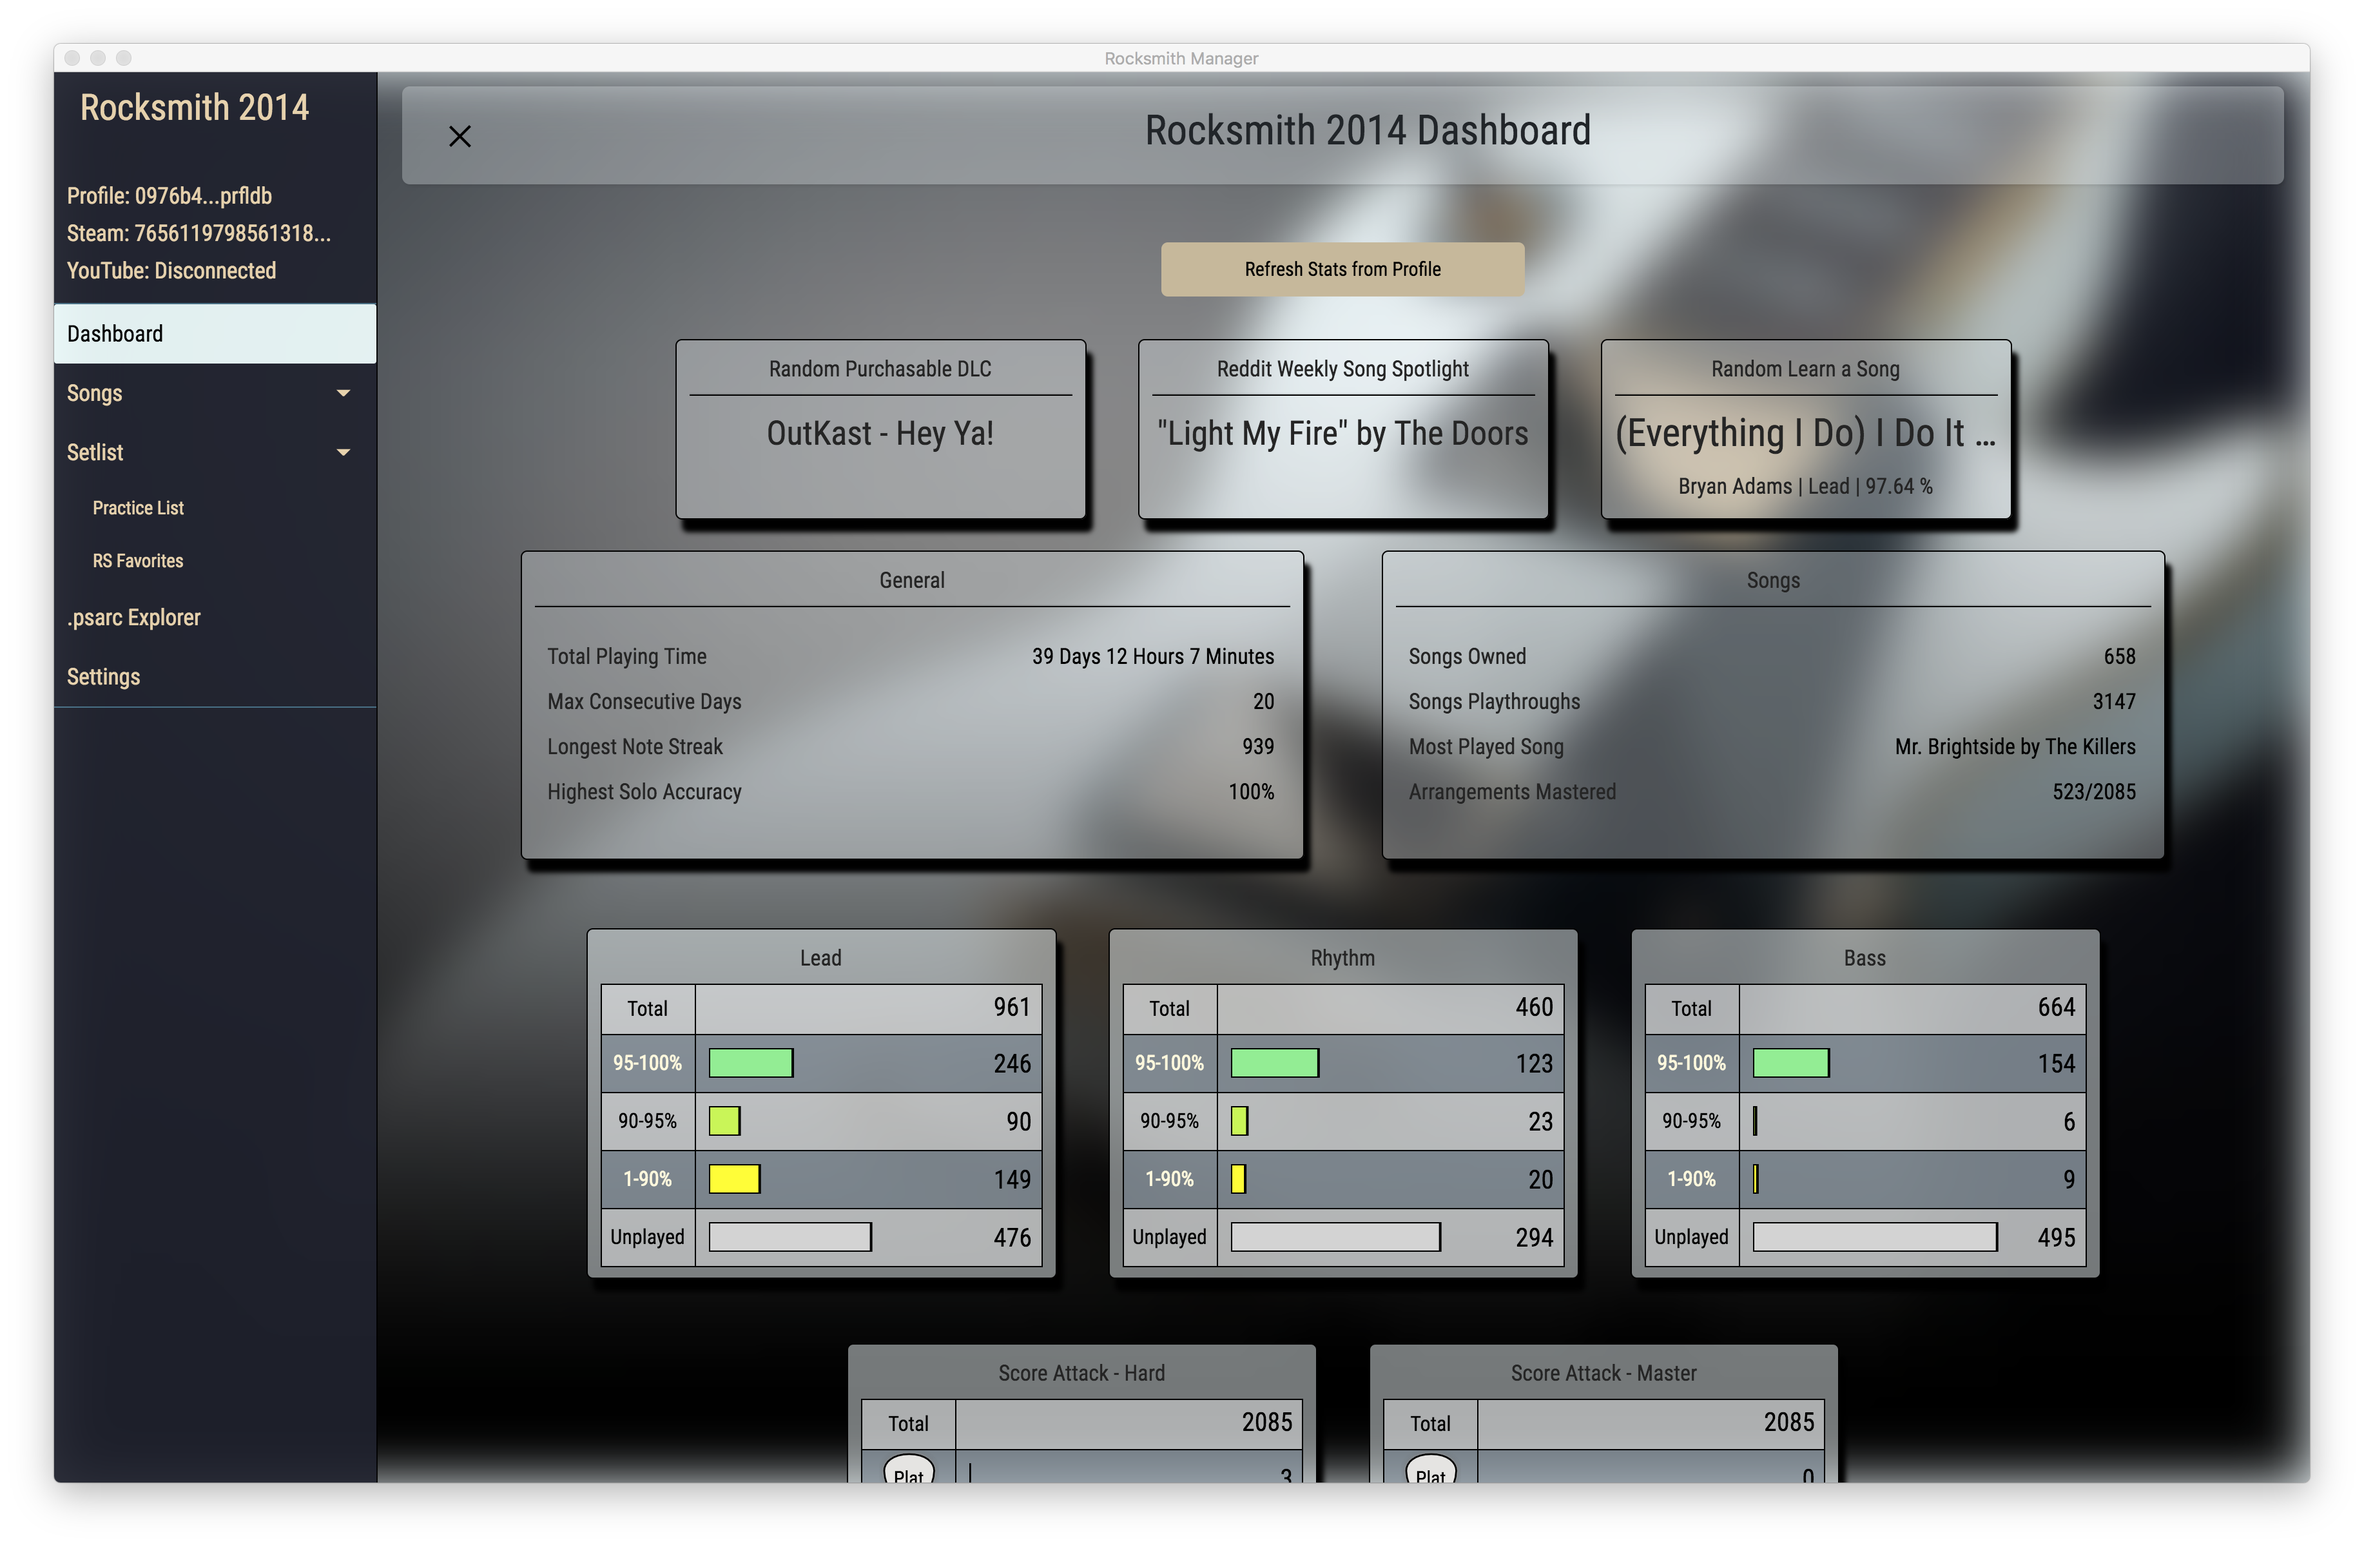
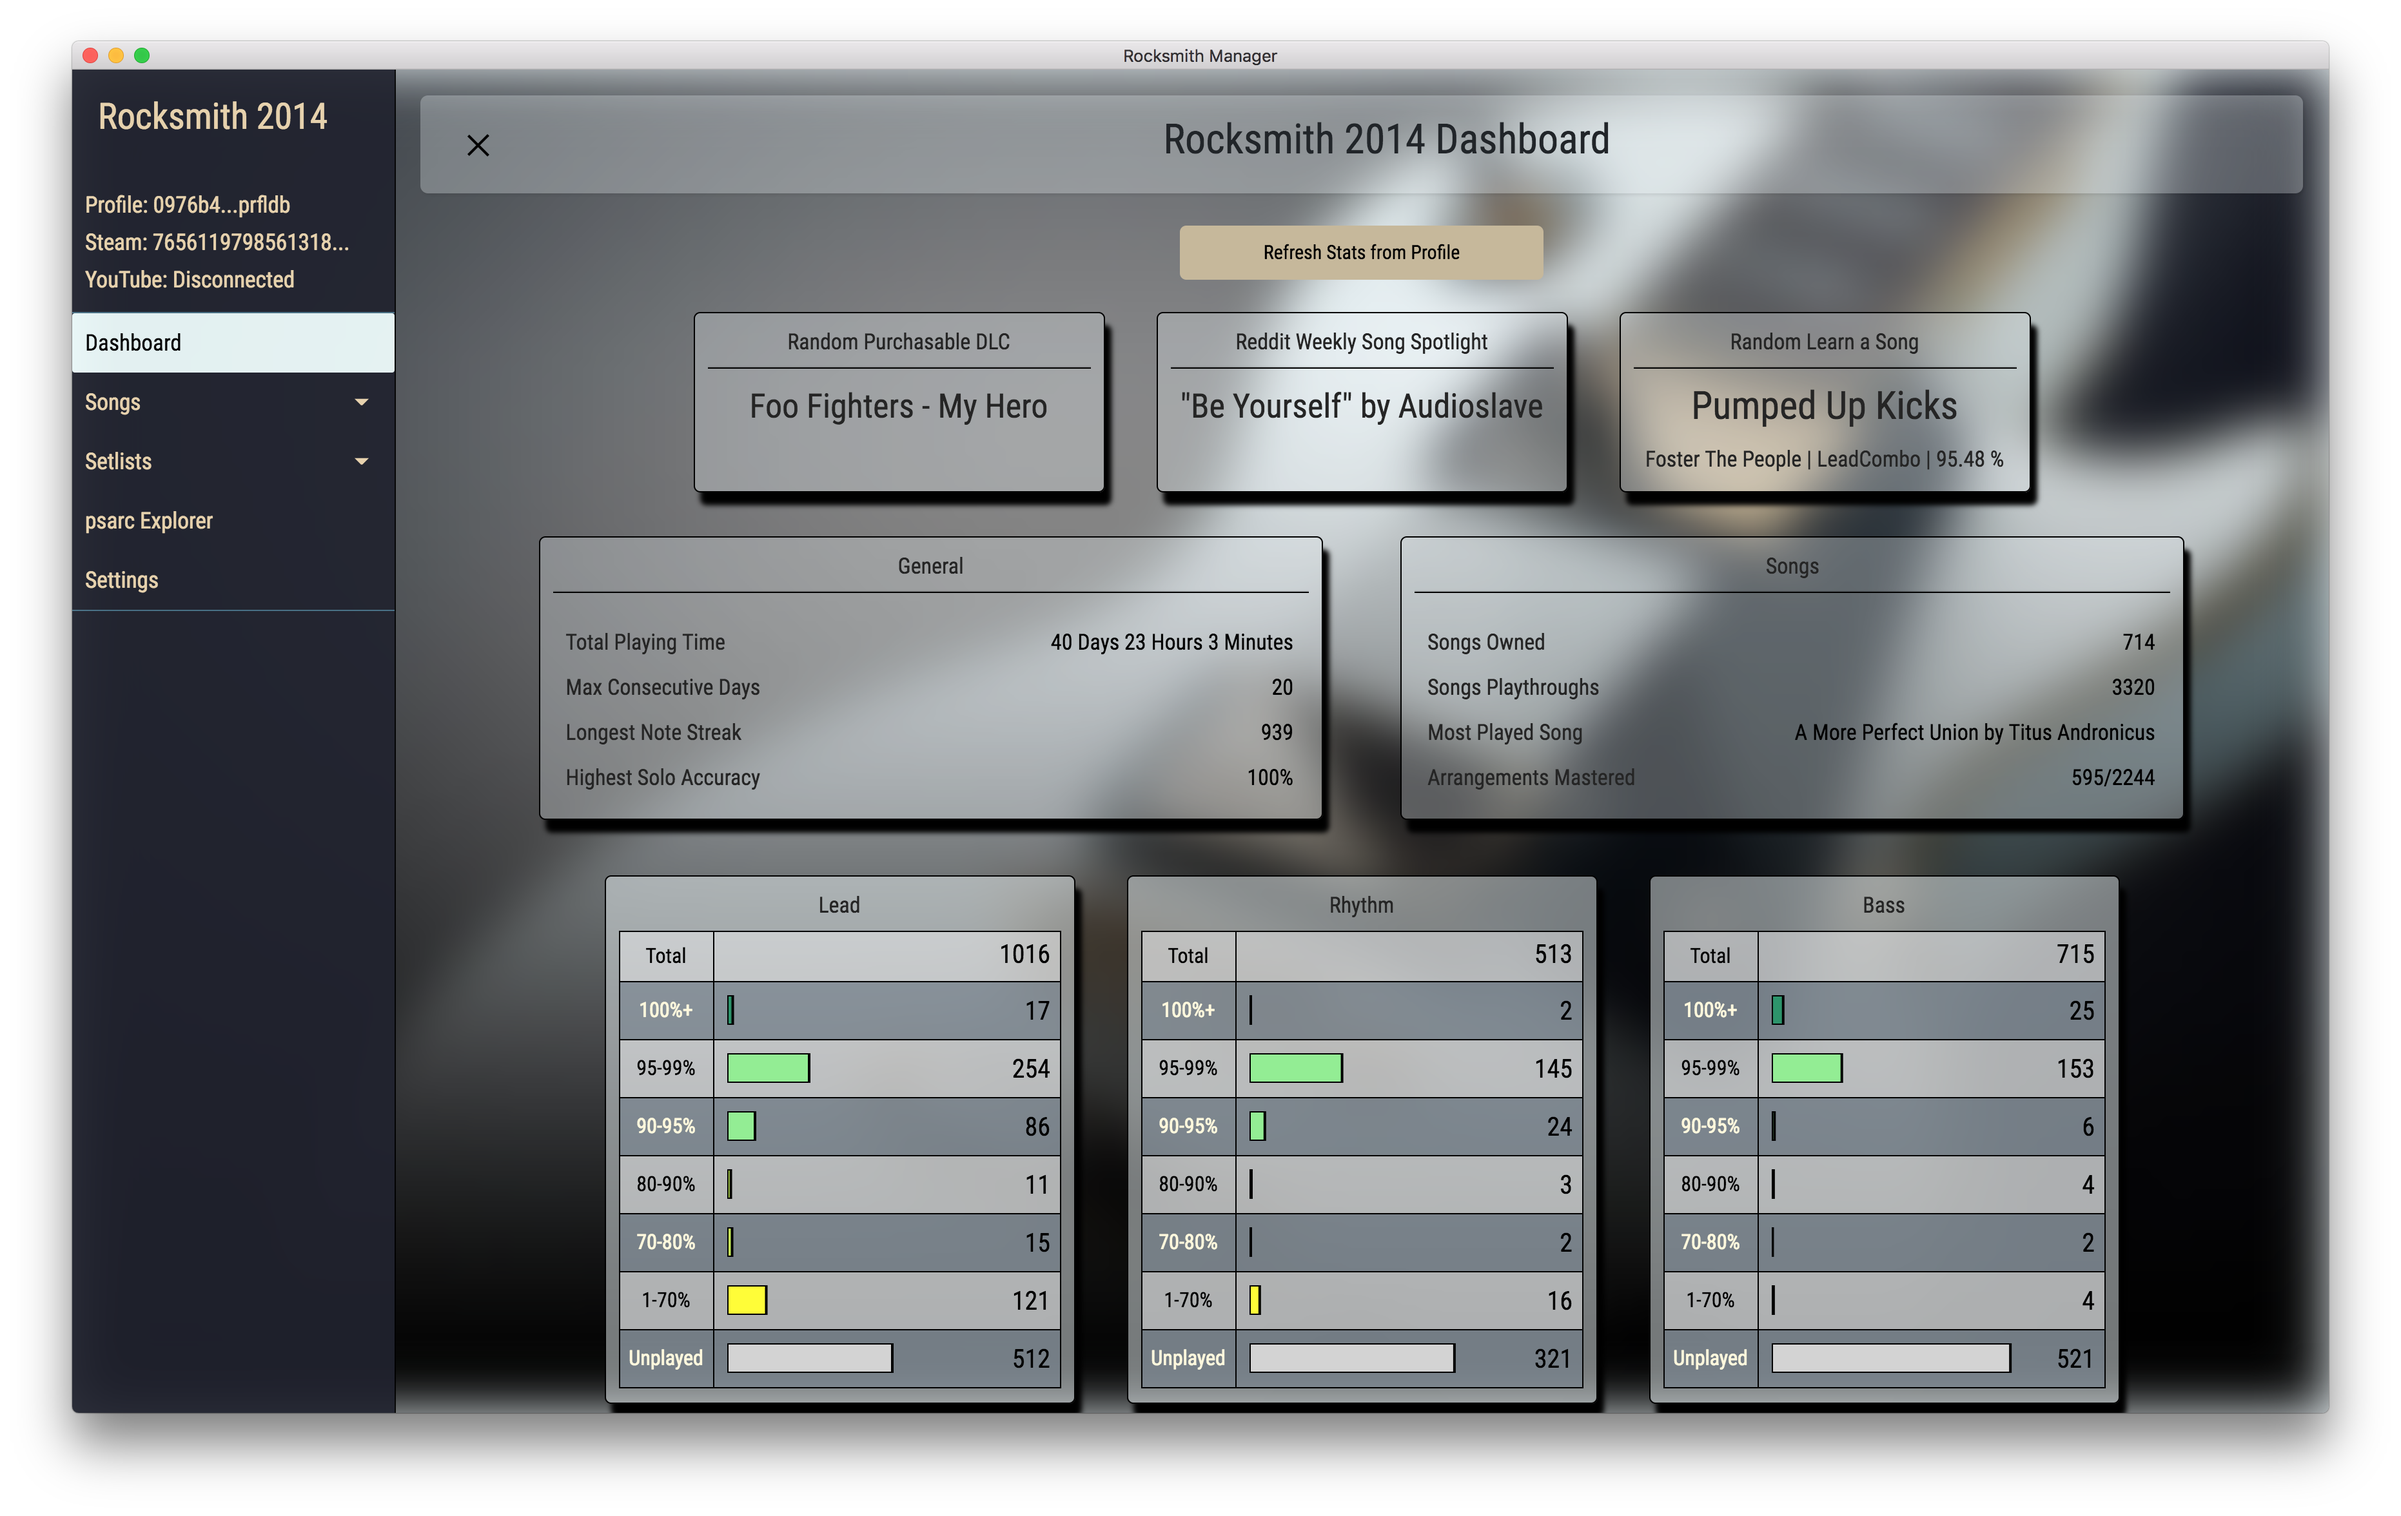
update screenshot/css

Changed region(s): [[0.0, 0.031, 0.9945, 0.9622]]

diff --git a/src/Components/dashboardView.js b/src/Components/dashboardView.js
@@ -396,7 +396,7 @@ export default class DashboardView extends React.Component {
     const scoreattackstyle = "col ta-center dashboard-bottom " + (this.state.showsastats ? sacolwidth : "hidden");
     const arrstyle = "col ta-center dashboard-bottom col-md-3";
     return (
-      <div className="container-fluid">
+      <div className="container-fluid" style={{ marginTop: -20 + 'px' }}>
         <div className="centerButton list-unstyled">
           <a
             onClick={this.refreshStats}
@@ -405,7 +405,7 @@ export default class DashboardView extends React.Component {
           </a>
         </div>
         <br />
-        <div className="row justify-content-md-center" style={{ marginTop: -30 + 'px' }}>
+        <div className="row justify-content-md-center" style={{ marginTop: -38 + 'px' }}>
           <div className="col col-md-3 ta-center dashboard-top dashboard-header">
             <div>
               <a onClick={() => this.fetchRandomStats(false, true)}>Random Purchasable DLC</a>
@@ -469,7 +469,7 @@ export default class DashboardView extends React.Component {
             </div>
           </div>
         </div>
-        <div className="row justify-content-md-center">
+        <div className="row justify-content-md-center" style={{ marginTop: 10 + 'px' }}>
           <div className="col col-lg-5 ta-center dashboard-top">
             <div>
               General
@@ -549,7 +549,7 @@ export default class DashboardView extends React.Component {
           </div>
         </div>
         <br /> <br />
-        <div className="row justify-content-md-center">
+        <div className="row justify-content-md-center" style={{ marginTop: -10 + 'px' }}>
           <div className={arrstyle}>
             <span style={{ fontSize: 17 + 'px' }}>Lead </span>
             <StatsTableView
@@ -575,7 +575,7 @@ export default class DashboardView extends React.Component {
             />
           </div>
         </div>
-        <div className="row justify-content-md-center dashboard-scoreattack">
+        <div className="row justify-content-md-center dashboard-scoreattack" style={{ marginTop: -10 + 'px' }}>
           {
             this.state.scoreAttackDashboard[0] === true ?
               <div className={scoreattackstyle}>

diff --git a/src/electron-starter.js b/src/electron-starter.js
@@ -9,7 +9,7 @@ let mainWindow;
 function createWindow() {
     mainWindow = new BrowserWindow({
         width: 1750,
-        height: 1036,
+        height: 1064,
         icon: path.join(__dirname, "./icons/png/icon-1024x1024.png"),
         webPreferences: {
             preload: path.join(__dirname, "./preload.js"),
